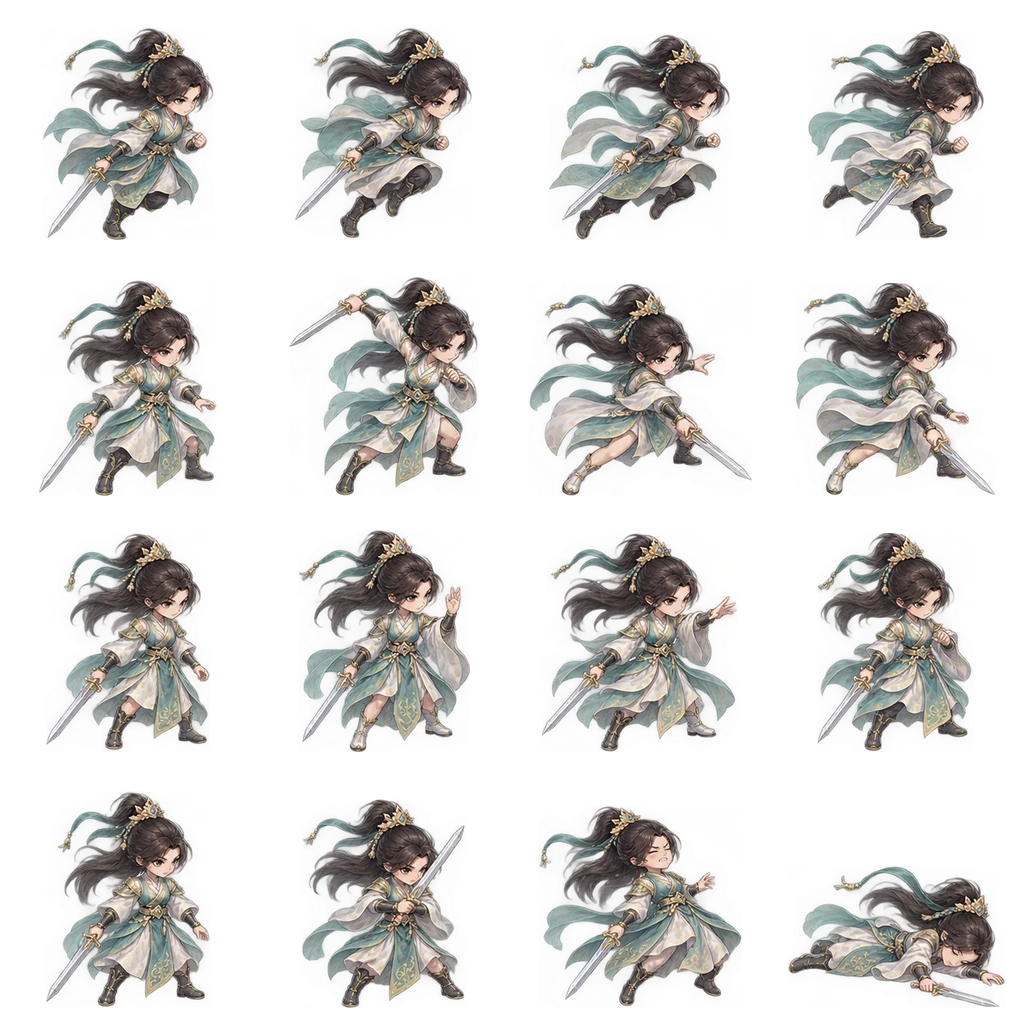
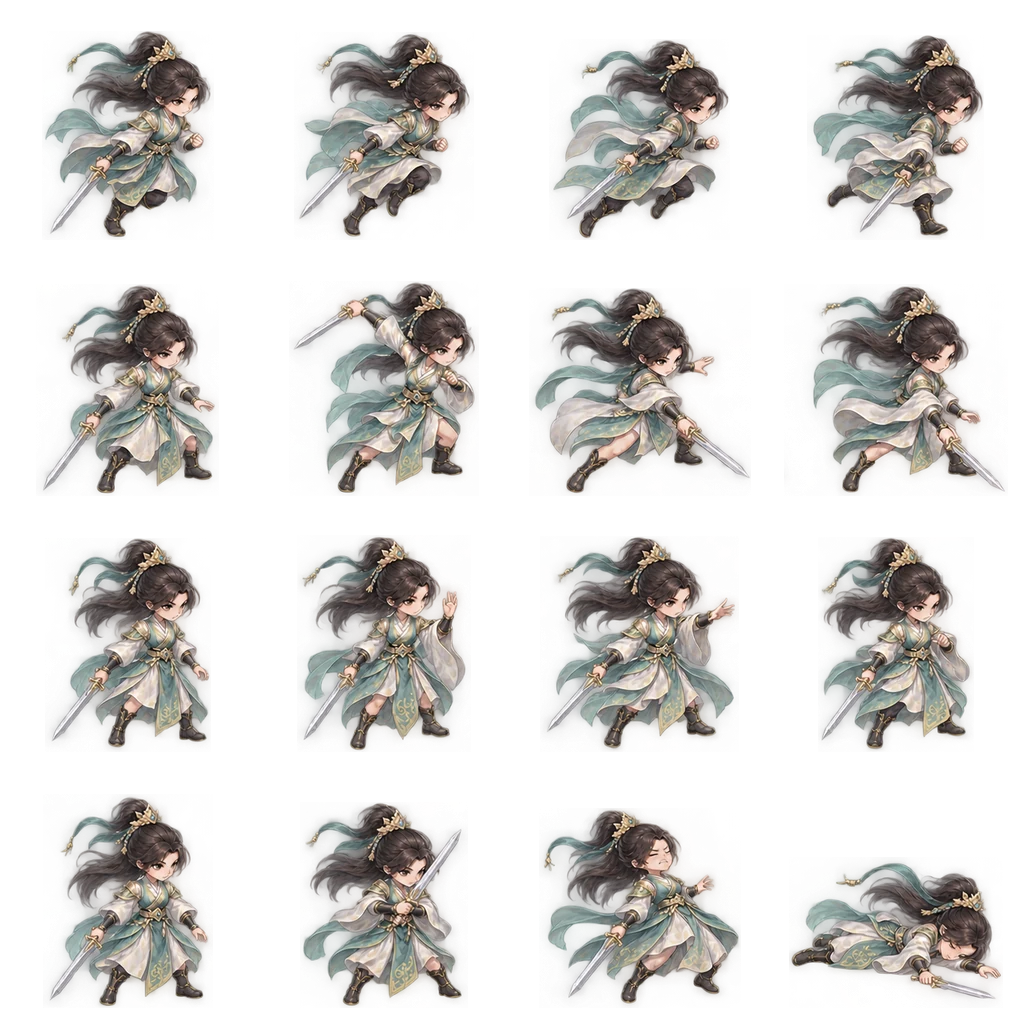
fix: unify dark boots in hero combat animation frames
Regenerate male and female 4x4 sprite atlases to use matching dark boots in attack and cast poses. Bump atlas and module cache versions so the fixed frames load across all battle scenes. Atlas checks: 1110 passed.

diff --git a/assets/online/online.js b/assets/online/online.js
@@ -56,7 +56,7 @@ async function perform(action){
 function equipmentLines(p){return bridge().gearInfo(p.equipment).map(item=>`<li><span>${h(item.label)}</span><strong>${h(item.name)}</strong></li>`).join('');}
 function profileCard(p,currentRealm){return `<article class="community-person"><div class="community-avatar">${bridge().publicArt(p)}</div><div class="community-person-info"><strong>${h(p.name)}</strong><p>${h(p.realm_label)} · ${h(labels[p.stance])}</p><p>${h(bridge().sectName(p.sect,p.rank))} · ${h(bridge().outfitName(p.outfit_id))}</p><ul class="community-gear">${equipmentLines(p)}</ul><div class="modal-actions"><button class="btn ghost" data-profile="${h(p.user_id)}">人物詳情</button><button class="btn primary" data-opponent="${h(p.user_id)}">${Number.isInteger(currentRealm)&&Number.isInteger(p.realm)&&currentRealm!==p.realm?'跨境切磋':'登台切磋'}</button></div>${p.realm===null?'<p class="tiny">舊名帖，外觀與境界分類待對方更新。</p>':''}</div></article>`;}
 function showProfile(id){const p=profileCache.find(p=>p.user_id===id);if(!p)return;dialog.querySelector('#onlineProfile').innerHTML=`<section class="community-profile-detail"><div class="community-avatar large">${bridge().publicArt(p)}</div><div><h3>${h(p.name)}</h3><p>${h(p.realm_label)} · ${p.gender==='female'?'女修':'男修'} · ${h(labels[p.stance])}</p><p>${h(bridge().sectName(p.sect,p.rank))}</p><p>外觀服飾：${h(bridge().outfitName(p.outfit_id))}</p><ul class="community-gear">${equipmentLines(p)}</ul><p class="tiny">名帖更新：${h(new Date(p.updated_at).toLocaleString('zh-TW'))}。展示玩家公開的裝備，未公開背包與存檔。</p><button class="btn primary" data-opponent="${h(p.user_id)}">前往擂台切磋</button></div></section>`;dialog.querySelector('#onlineProfile').scrollIntoView({behavior:'smooth',block:'start'});}
-async function showArena(data,ticket){const {mountArena}=await import('./arena.js?v=5');if(ticket!==arenaEpoch)return;const host=dialog.querySelector('#onlineBattle');const mounted=await mountArena(host,data);if(ticket!==arenaEpoch){mounted.dispose();return;}arena=mounted;host.insertAdjacentHTML('beforeend','<button class="btn" data-online="arena-close">返回道友名單</button>');host.scrollIntoView({behavior:'smooth',block:'start'});}
+async function showArena(data,ticket){const {mountArena}=await import('./arena.js?v=6');if(ticket!==arenaEpoch)return;const host=dialog.querySelector('#onlineBattle');const mounted=await mountArena(host,data);if(ticket!==arenaEpoch){mounted.dispose();return;}arena=mounted;host.insertAdjacentHTML('beforeend','<button class="btn" data-online="arena-close">返回道友名單</button>');host.scrollIntoView({behavior:'smooth',block:'start'});}
 dialog.addEventListener('click',async e=>{const b=e.target.closest('button');if(!b)return;if(b.hasAttribute('data-entry-continue'))return;if(b.dataset.arena)return;if(b.dataset.online==='arena-close'){stopArena();return;}if(b.dataset.online==='close'){closeOnline();return;}if(b.dataset.online==='guest'){document.getElementById('guestGameBtn').click();return;}if(b.dataset.profile){showProfile(b.dataset.profile);return;}if(busy)return;busy=true;b.disabled=true;try{await init();if(b.dataset.opponent){const ticket=beginArena();status('正在請擂台執事判定對戰…');const {data,error}=await client.rpc('xianxia_spar',{opponent:b.dataset.opponent});if(ticket!==arenaEpoch)return;if(error)throw error;await showArena(data,ticket);if(ticket!==arenaEpoch)return;status('對戰由後端判定，正在播放交手過程。');}else await perform(b.dataset.online);}catch(e){const message=e.message||'連線失敗，請稍後重試。';status(message);const host=dialog.querySelector('#onlineBattle');if(host?.dataset.active){host.innerHTML='<p role="status"></p><button class="btn" data-online="arena-close">返回道友名單</button>';host.querySelector('p').textContent=message;}}finally{busy=false;b.disabled=false;}});
 document.getElementById('onlineBtn')?.addEventListener('click',open);
 

diff --git a/assets/engine/home.js b/assets/engine/home.js
@@ -1,4 +1,4 @@
-import {makeGame} from './runtime.js?v=7';
+import {makeGame} from './runtime.js?v=8';
 let runtime=null,serial=0;
 async function show(){const v=window.xianxiaEngine?.view();if(!v||window.xianxiaBridge?.currentRoute()!=='home')return;const current=++serial;runtime?.destroy();runtime=null;let mount=document.getElementById('phaserSanctuary');if(!mount){mount=document.createElement('div');mount.id='phaserSanctuary';document.querySelector('#route-home .scene').append(mount);}mount.innerHTML='';try{const engine=await makeGame(mount,{transparent:true,label:'Phaser 洞府吐納場景',create(rigs){const g=this.add.graphics();g.fillStyle(0x173e32,.3);g.fillRect(0,0,960,540);for(let i=0;i<18;i++){const mote=this.add.circle((i*73)%960,120+(i*91)%380,1+i%3,0xcddfa1,.4);this.tweens.add({targets:mote,y:mote.y-85,alpha:0,duration:2800+i*170,repeat:-1,delay:i*120});}const ring=this.add.ellipse(480,465,240,40).setStrokeStyle(2,0xb7d4a1,.5);this.tweens.add({targets:ring,scale:1.15,alpha:.2,duration:1600,yoyo:true,repeat:-1});}});if(current!==serial){engine.destroy();return;}runtime=engine;document.querySelector('#route-home .scene').classList.add('phaser-sanctuary-ready');}catch{mount.remove();}}
 function hide(){serial++;runtime?.destroy();runtime=null;document.querySelector('#route-home .scene')?.classList.remove('phaser-sanctuary-ready');}

diff --git a/Xianxia.html b/Xianxia.html
@@ -2139,14 +2139,14 @@ if(!state){$('nameInput').value=pick(draftGender==='female'?FEMALE_NAMES:NAMES);
 $('creatorOverlay').classList.add('hidden');$('gameEntry').addEventListener('cancel',e=>e.preventDefault());$('gameEntry').showModal();
 setInterval(tick,250);
 </script>
-<script type="module" src="assets/online/online.js?v=8"></script>
-<script type="module" src="assets/engine/journey.js?v=6"></script>
-<script type="module" src="assets/engine/hunt.js?v=5"></script>
-<script type="module" src="assets/engine/home.js?v=4"></script>
+<script type="module" src="assets/online/online.js?v=9"></script>
+<script type="module" src="assets/engine/journey.js?v=7"></script>
+<script type="module" src="assets/engine/hunt.js?v=6"></script>
+<script type="module" src="assets/engine/home.js?v=5"></script>
 <script type="module" src="assets/engine/world.js?v=18"></script>
-<script type="module" src="assets/engine/field.js?v=16"></script>
+<script type="module" src="assets/engine/field.js?v=17"></script>
 <script type="module" src="assets/engine/territory.js?v=2"></script>
-<script type="module" src="assets/engine/client.js?v=28"></script>
+<script type="module" src="assets/engine/client.js?v=29"></script>
 </body></html>
 
 

diff --git a/assets/online/arena.js b/assets/online/arena.js
@@ -1,4 +1,4 @@
-import {makeGame,makeRig,floatText,slash} from '../engine/runtime.js?v=7';
+import {makeGame,makeRig,floatText,slash} from '../engine/runtime.js?v=8';
 import {createBattleAtmosphere} from '../engine/battle-art.js?v=3';
 const h=s=>String(s??'').replace(/[&<>"']/g,c=>({'&':'&amp;','<':'&lt;','>':'&gt;','"':'&quot;',"'":'&#39;'}[c]));
 export function validReplay(data){if(!data||!['win','loss','draw'].includes(data.result)||!Array.isArray(data.rounds)||data.rounds.length<1||data.rounds.length>12)return false;let a=100,b=100;return data.rounds.every((r,i)=>{if(r.round!==i+1||!Number.isInteger(r.attack)||!Number.isInteger(r.received)||r.attack<0||r.received<0||r.selfHP!==Math.max(0,a-r.received)||r.opponentHP!==Math.max(0,b-r.attack)||a<=0||b<=0)return false;a=r.selfHP;b=r.opponentHP;return true})&&((a===b?'draw':a>b?'win':'loss')===data.result);}

diff --git a/assets/engine/hunt.js b/assets/engine/hunt.js
@@ -1,6 +1,6 @@
-import {makeGame,makeRig,makeGroundShadow,floatText,fillTint} from './runtime.js?v=7';
+import {makeGame,makeRig,makeGroundShadow,floatText,fillTint} from './runtime.js?v=8';
 import {createBattleAtmosphere,techniqueStyle,playHuntEffect} from './battle-art.js?v=3';
-import {makeMobArt,updateMobArt} from './combat-assets.js?v=1';
+import {makeMobArt,updateMobArt} from './combat-assets.js?v=2';
 const host=document.getElementById('phaserHunt'),api=()=>window.xianxiaHuntBridge;
 const escape=value=>String(value??'').replace(/[&<>"']/g,c=>({'&':'&amp;','<':'&lt;','>':'&gt;','"':'&quot;',"'":'&#39;'}[c]));
 let runtime=null,actor=null,enemy=null,body=null,enemyBreath=null,opening=false,active=false,paused=false,epoch=0,hudAt=0,combo=0,lastHit=0,hitStop=false,currentContext='patrol',enemyActor=null,enemyPrepared=null;

diff --git a/assets/engine/journey.js b/assets/engine/journey.js
@@ -1,8 +1,8 @@
-import {makeGame,makeRig,makeGroundShadow,floatText,slash} from './runtime.js?v=7';
+import {makeGame,makeRig,makeGroundShadow,floatText,slash} from './runtime.js?v=8';
 import {createBattleAtmosphere,playTechnique,techniqueStyle} from './battle-art.js?v=3';
 const h=s=>String(s??'').replace(/[&<>"']/g,c=>({'&':'&amp;','<':'&lt;','>':'&gt;','"':'&quot;',"'":'&#39;'}[c]));
 const api=()=>window.xianxiaEngine;
-import {makeMobArt} from './combat-assets.js?v=1';
+import {makeMobArt} from './combat-assets.js?v=2';
 const host=document.getElementById('phaserJourney');
 let runtime=null,opening=false,animating=false,deferredModal=null,worldActive=false,currentMap=-1,moveTarget=null,held=new Set(),actor,enemy,viewKey='',near=null,worldPosition={x:120,y:465};
 const spots=[[260,320],[460,220],[670,330],[820,150]];

diff --git a/assets/engine/field.js b/assets/engine/field.js
@@ -1,5 +1,5 @@
-import {makeGame,makeRig,makeGroundShadow,floatText,fillTint} from './runtime.js?v=7';
-import {makeMobArt,updateMobArt,combatEffect,projectileArt,enemyProjectileArt} from './combat-assets.js?v=1';
+import {makeGame,makeRig,makeGroundShadow,floatText,fillTint} from './runtime.js?v=8';
+import {makeMobArt,updateMobArt,combatEffect,projectileArt,enemyProjectileArt} from './combat-assets.js?v=2';
 import {techniqueStyle} from './battle-art.js?v=3';
 const bridge=()=>window.xianxiaFieldBridge,escape=s=>String(s??'').replace(/[&<>"']/g,c=>({'&':'&amp;','<':'&lt;','>':'&gt;','"':'&quot;',"'":'&#39;'}[c]));
 const host=document.createElement('section');host.id='phaserField';host.className='hidden';host.setAttribute('aria-label','自由除妖戰場');document.getElementById('route-map').prepend(host);

diff --git a/assets/engine/runtime.js b/assets/engine/runtime.js
@@ -1,4 +1,4 @@
-import {preloadCombatArt,registerCombatFrames,makeAtlasRig} from './combat-assets.js?v=1';
+import {preloadCombatArt,registerCombatFrames,makeAtlasRig} from './combat-assets.js?v=2';
 let loading;
 export function loadPhaser(){if(window.Phaser)return Promise.resolve(window.Phaser);if(!loading)loading=new Promise((resolve,reject)=>{const script=document.createElement('script');script.src='assets/vendor/phaser-4.2.1.min.js';script.onload=()=>resolve(window.Phaser);script.onerror=()=>{loading=null;reject(Error('2D 引擎載入失敗，請重新整理。'));};document.head.append(script);});return loading;}
 // Reuse the same painted appearance for profiles, exploration and combat.

diff --git a/assets/engine/combat-assets.js b/assets/engine/combat-assets.js
@@ -1,5 +1,5 @@
 // Shared generated battle atlases. Old illustrations remain the loading fallback.
-export const COMBAT_ART_VERSION='20261103';
+export const COMBAT_ART_VERSION='20261103b';
 export const REGIONS=['qingzhou','marsh','sea','snow','nether','heaven'];
 export const SPECIES=['wolf','bee','boar','serpent','ape','construct','wolfking'];
 export const BOSS_ROWS={verdant:[0,0],marsh:[0,1],abyss:[0,2],frost:[1,0],nether:[1,1],heaven:[1,2]};

diff --git a/assets/engine/client.js b/assets/engine/client.js
@@ -1,4 +1,4 @@
-import {loadPhaser} from './runtime.js?v=7';
+import {loadPhaser} from './runtime.js?v=8';
 // Native canvas presentation. The existing simulation and action validators stay authoritative.
 // Phaser 4 uses physical game dimensions; keep layout and gestures in CSS pixels.
 let display={width:1,height:1,ratio:1};
